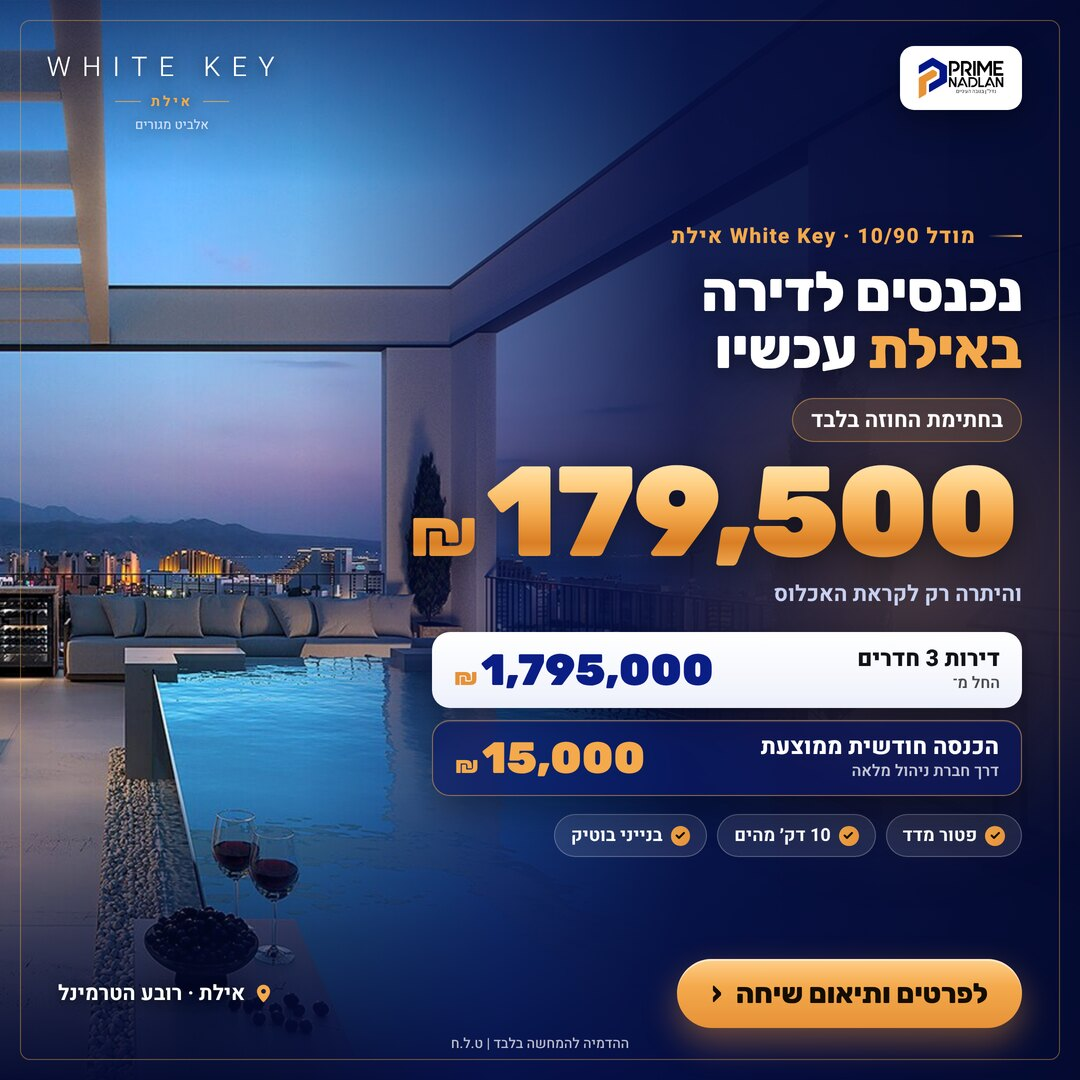
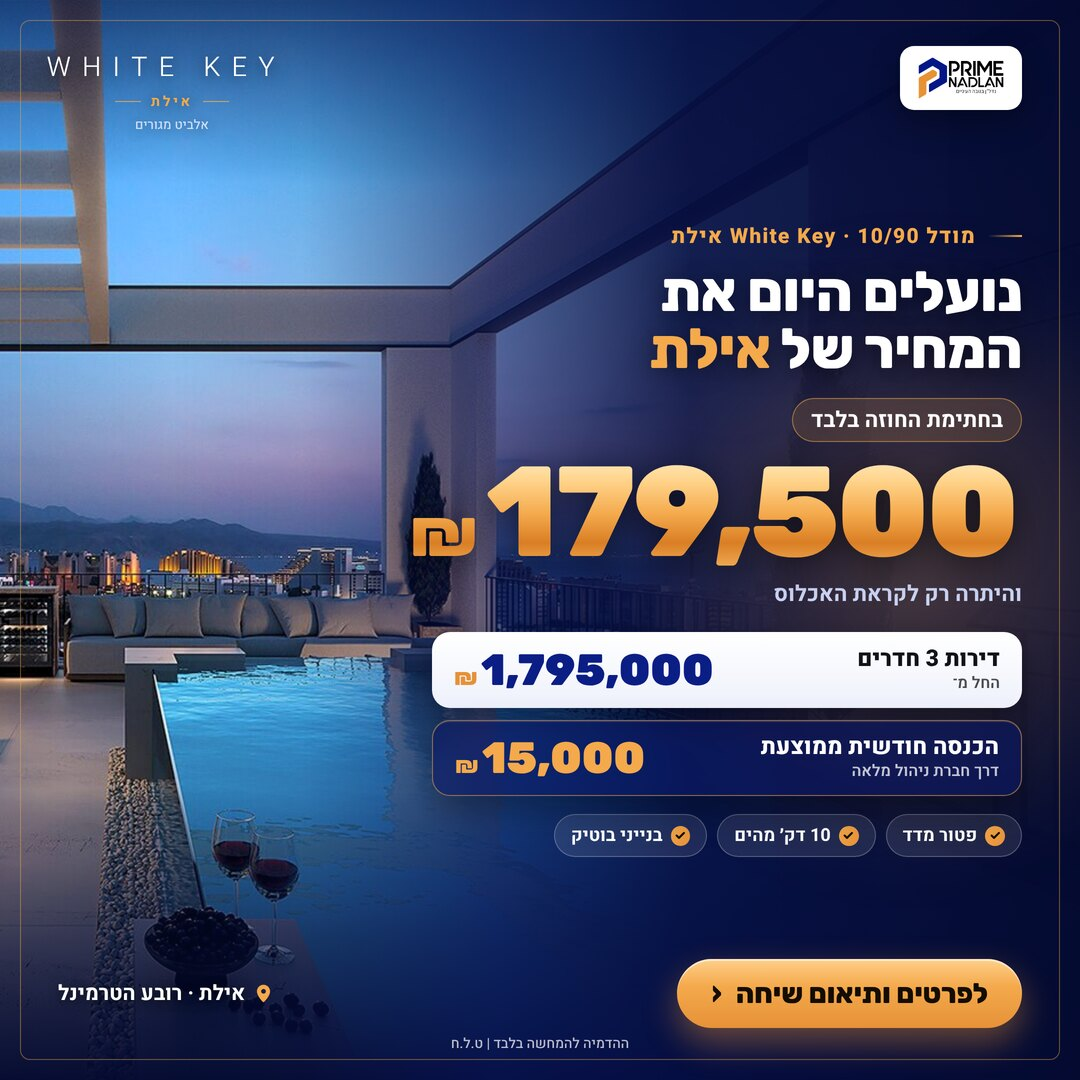
whitekey: עדכון כותרת מודעת 10/90 ל"נועלים היום את המחיר של אילת"
הכותרת הקודמת ("נכנסים לדירה באילת עכשיו") רמזה על אכלוס מיידי;
הדירה מוכנה בעוד ~3.5–4 שנים. הכותרת החדשה משדרת נעילת מחיר היום.

Claude-Session: https://claude.ai/code/session_01Ny9N966SA4YS79YRoDainL

Changed region(s): [[0.5806, 0.2444, 0.9472, 0.3667]]

diff --git a/whitekey/index.html b/whitekey/index.html
@@ -118,7 +118,7 @@ footer .disc{margin-top:10px;opacity:.75;}
       <div class="card"><div class="thumb" onclick="zoom('img/feed-income.jpg')"><img src="img/feed-income.jpg" alt="קונספט הכנסה"></div>
         <div class="cap"><span class="tag">עוגן: הכנסה</span><h3>דירה שעובדת בשבילכם</h3><p>הכנסה חודשית ממוצעת 15,000 ₪ · חברת ניהול מלאה</p></div></div>
       <div class="card"><div class="thumb" onclick="zoom('img/feed-entry.jpg')"><img src="img/feed-entry.jpg" alt="קונספט כניסה"></div>
-        <div class="cap"><span class="tag">עוגן: 10/90</span><h3>נכנסים לדירה באילת</h3><p>179,500 ₪ בחתימה · היתרה לקראת האכלוס</p></div></div>
+        <div class="cap"><span class="tag">עוגן: 10/90</span><h3>נועלים היום את המחיר של אילת</h3><p>179,500 ₪ בחתימה · היתרה לקראת האכלוס</p></div></div>
       <div class="card"><div class="thumb" onclick="zoom('img/feed-lifestyle.jpg')"><img src="img/feed-lifestyle.jpg" alt="קונספט אורח חיים"></div>
         <div class="cap"><span class="tag">אורח חיים</span><h3>החיים החדשים באילת</h3><p>פנייה רגשית · נוף, בריכה וקו ים לבן</p></div></div>
     </div>
